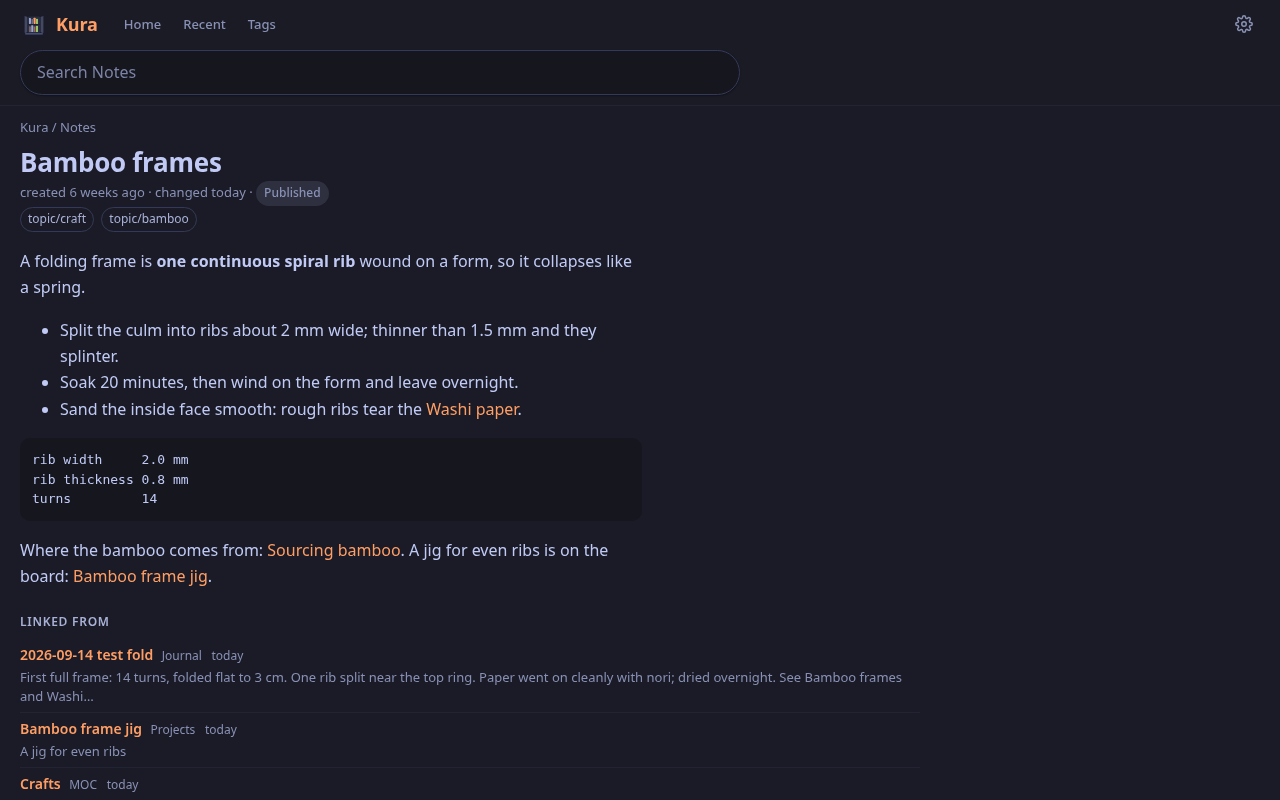
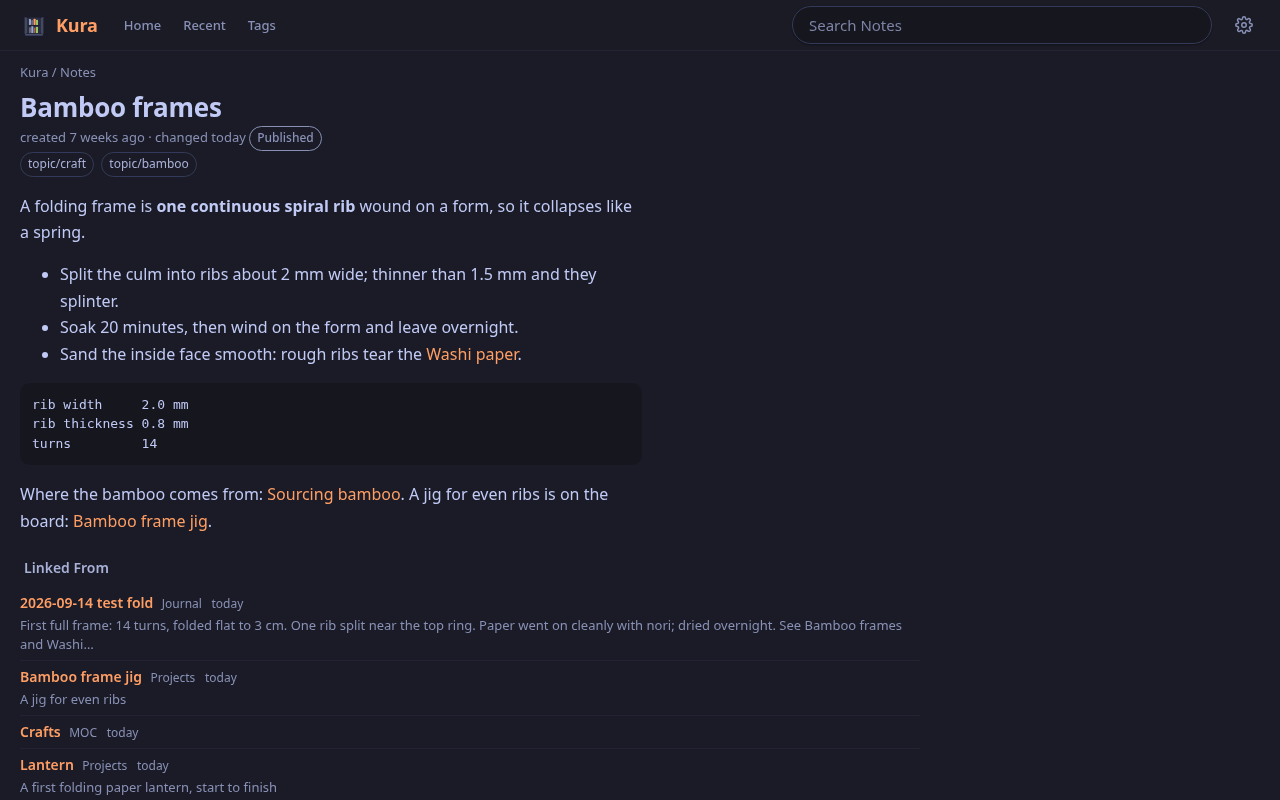
machiya: site and README: screenshots retaken after the UI unification (one-row header, search field, footer)
Site: Shiori's hero and search shots from shiori's tools/screenshots --site at
fe77b04 (1.5.17); Kura's note at 1920x1080 (Washi paper, from kura's tool at
f72a213), Niwa's garden on a phone (4e93549) and Konbini's board (63ffd14),
as WebP. Alt text follows: Kura's note is now Washi paper, Konbini's board
has its lane counts, New Card and search. README: the eight umbrella shots
copied from each app's own commit. Haiku and System 6 shots unchanged.

diff --git a/site/index.html b/site/index.html
@@ -87,10 +87,10 @@
       </div>
       <figure class="feature-shot pair">
         <picture class="wide only-light">
-          <img src="img/notes-kura-light.webp" width="1920" height="1080" loading="lazy" decoding="async" alt="Kura showing the note Bamboo frames: its tags, the steps and a table of rib sizes, beside the vault's folders and a list of recently changed notes.">
+          <img src="img/notes-kura-light.webp" width="1920" height="1080" loading="lazy" decoding="async" alt="Kura showing the note Washi paper: its tags, a table of paper weights and the handling steps, beside the vault's folders and a list of recently changed notes.">
         </picture>
         <picture class="wide only-dark">
-          <img src="img/notes-kura-dark.webp" width="1920" height="1080" loading="lazy" decoding="async" alt="Kura showing the note Bamboo frames: its tags, the steps and a table of rib sizes, beside the vault's folders and a list of recently changed notes.">
+          <img src="img/notes-kura-dark.webp" width="1920" height="1080" loading="lazy" decoding="async" alt="Kura showing the note Washi paper: its tags, a table of paper weights and the handling steps, beside the vault's folders and a list of recently changed notes.">
         </picture>
         <picture class="phone only-light">
           <img src="img/notes-niwa-phone-light.webp" width="780" height="1688" loading="lazy" decoding="async" alt="Niwa on a phone: the published notes, with topic maps for crafts and travel, then every note, most recently tended first, marked Seedling, Budding or Evergreen.">
@@ -111,10 +111,10 @@
       </div>
       <figure class="feature-shot">
         <picture class="only-light">
-          <img src="img/projects-light.webp" width="1280" height="800" loading="lazy" decoding="async" alt="Konbini's board for the sample vault: cards grouped by area in Backlog, Ready, WIP, Blocked and Done columns, each card tinted in its column's colour, with a Group By switch and Area pills above.">
+          <img src="img/projects-light.webp" width="1280" height="800" loading="lazy" decoding="async" alt="Konbini's board for the sample vault: cards grouped by area in Backlog, Ready, WIP, Blocked and Done columns, each lane headed by its count and each card tinted in its column's colour, under one header row with a New Card button and card search, a Group By switch and Area pills.">
         </picture>
         <picture class="only-dark">
-          <img src="img/projects-dark.webp" width="1280" height="800" loading="lazy" decoding="async" alt="Konbini's board for the sample vault: cards grouped by area in Backlog, Ready, WIP, Blocked and Done columns, each card tinted in its column's colour, with a Group By switch and Area pills above.">
+          <img src="img/projects-dark.webp" width="1280" height="800" loading="lazy" decoding="async" alt="Konbini's board for the sample vault: cards grouped by area in Backlog, Ready, WIP, Blocked and Done columns, each lane headed by its count and each card tinted in its column's colour, under one header row with a New Card button and card search, a Group By switch and Area pills.">
         </picture>
       </figure>
     </div>
